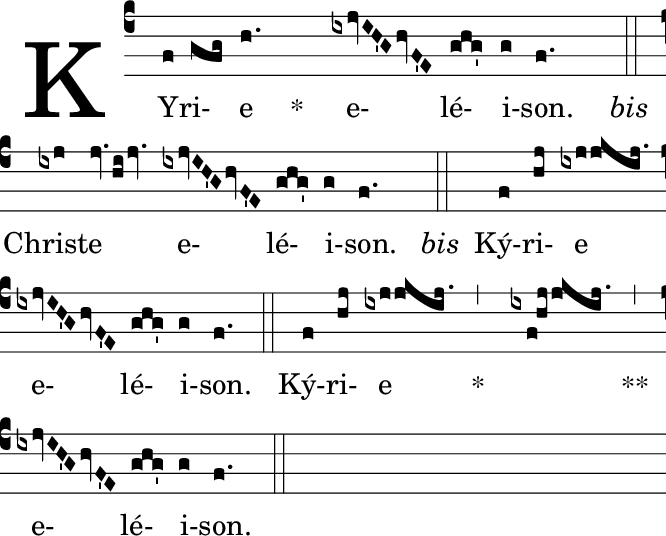
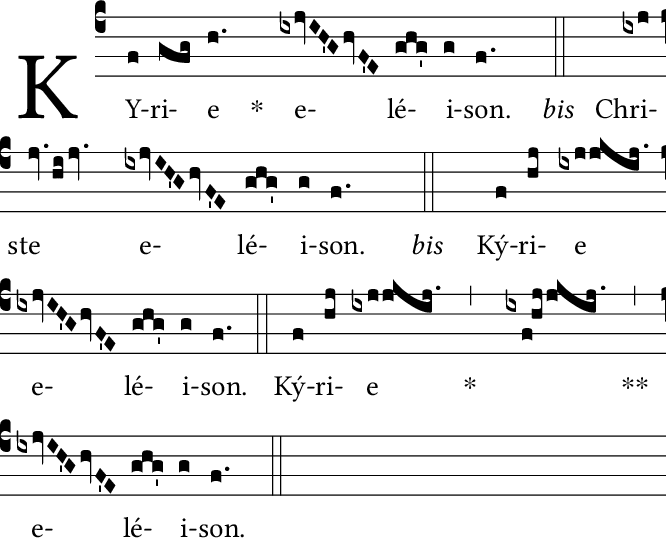
Changing font

diff --git a/tutorial/tutorial-gabc-03.html b/tutorial/tutorial-gabc-03.html
@@ -181,11 +181,11 @@ Finally, let's put a title at the top of the page by placing the following line 
 
 <h3>Changing the typeface</h3>
 
-<p>To see how the score looks in Palatino font, I looked for the line that sets the typeface New Century Schoolbook:</p>
+<p>To see how the score looks in Arial font, I looked for the line that sets the typeface to Linux Libertine:</p>
 
 <div class="commandline">
 	<pre>
-\usepackage{newcent}
+\usepackage{libertine}
 </pre>
 </div>
 
@@ -193,7 +193,7 @@ Finally, let's put a title at the top of the page by placing the following line 
 
 <div class="commandline">
 	<pre>
-\usepackage{<font color="red">palatino</font>}
+<font color="red">\setmainfont{Arial}</font>
 </pre>
 </div>
 
@@ -203,9 +203,7 @@ Finally, let's put a title at the top of the page by placing the following line 
 <img src="kyrie-17-15.png"/>
 </div>
 
-<p>If you don't see the difference, look particularly at the initial "K" and note where the lower diaganol branches off from the upper one.</p>
-
-<p>The best-looking free font for gregorio is a matter of taste, but <code>kpfonts</code> is also a good choice (<code>\usepackage{kpfonts}</code>).</p>
+<p>This result is kind of ugly, so we'll change it back to Linux Libertine, but this should give you some idea of how to change the font.  The best-looking font for Gregorian Chant is a matter of taste, but <code>kpfonts</code> is also a good choice (<code>\usepackage{kpfonts}</code>).</p>
 
 <p>For a list of free fonts which are readily available for <span class="tex">T<span class="epsilson">e</span>X</span> see <a href="http://www.tug.dk/FontCatalogue/">The <span class="latex">L<span class="alpha">a</span>T<span class="epsilon">e</span>X</span> Font Catalogue.</a>  Other fonts, including most of the ones already installed on your system, can also be used, but we'll leave it up to you to explore the use of other fonts on your own.</p>
 
@@ -215,7 +213,7 @@ Finally, let's put a title at the top of the page by placing the following line 
 
 <div class="commandline">
 	<pre>
-\grechangedim{spaceabovelines}{1.45576 cm plus 0.36461 cm minus 0.09114 cm}{scalable}%
+\grechangedim{spaceabovelines}{1.45 cm plus 0.36 cm minus 0.09 cm}{scalable}%
 </pre>
 </div>
 

diff --git a/tutorial/tutorial-gabc-01.html b/tutorial/tutorial-gabc-01.html
@@ -109,8 +109,8 @@ name:Kyrie XVII;
 
 \usepackage{fullpage}
 
-\usepackage{newcent}
-\usepackage[T1]{fontenc}
+\usepackage{fontspec}
+\usepackage{libertine}
 
 \usepackage[autocompile]{gregoriotex}
 
@@ -333,7 +333,7 @@ name:Kyrie XVII;
 <img src="kyrie-xvii-goal.png"/>
 </div>
 
-<p>There are still some differences.  Of course, the typefaces are different. The examples above from my system use the <span class="tex">T<span class="epsilon">e</span>X</span> typeface "newcent" (New Century Schoolbook), which is very readable. I'll do an experiment with a different typeface later.</p>
+<p>There are still some differences.  Of course, the typefaces are different. The examples above from my system use the <span class="tex">T<span class="epsilon">e</span>X</span> typeface "libertine" (Linux Libertine), which is very readable. I'll do an experiment with a different typeface later.</p>
 
 <p>There is also a difference in the hyphenation of the text. The gregorio software did not automatically add a hyphen after the first syllable of <i>KYrie</i>, because there was enough space between the neumes without a hyphen. Feel free to add a hyphen manually in your gabc file if you find that it makes the score more readable for you.</p>
 

diff --git a/tutorial/kyrie-17-final-main.tex b/tutorial/kyrie-17-final-main.tex
@@ -1,19 +1,19 @@
 \documentclass[12pt, a5paper]{article}
-\usepackage{fullpage}
-\usepackage{palatino}
-\usepackage[T1]{fontenc}
-\usepackage[autocompile]{gregoriotex}
-\pagestyle{empty}
-\begin{document}
 
+\usepackage{fullpage}
+
+\usepackage{fontspec}
+\usepackage{libertine}
+
+\usepackage[autocompile]{gregoriotex}
+
+\pagestyle{empty}
+
+\begin{document}
 
 \begin{center}\begin{huge}\textsc{Kyrie XVII}\end{huge}\end{center}
 
-\grechangedim{afterinitialshift}{3.2mm}{scalable}
-\grechangedim{beforeinitialshift}{3.2mm}{scalable}
-
-\grechangestyle{initial}{\fontsize{43}{43}\selectfont}
-\grechangedim{spaceabovelines}{1.45576 cm plus 0.36461 cm minus 0.09114 cm}{scalable}
+\grechangedim{spaceabovelines}{1.45 cm plus 0.36 cm minus 0.09 cm}{scalable}
 
 \greannotation{\small \textsc{\textbf{VI.}}}
 \grecommentary{{\small \emph{XIV. s.}}}

diff --git a/tutorial/kyrie-17-15-main.tex b/tutorial/kyrie-17-15-main.tex
@@ -1,22 +1,20 @@
 \documentclass[12pt, a5paper]{article}
+
 \usepackage{fullpage}
-\usepackage{palatino}
-\usepackage[T1]{fontenc}
+
+\usepackage{fontspec}
+\setmainfont{Arial}
+
 \usepackage[autocompile]{gregoriotex}
+
 \pagestyle{empty}
+
 \begin{document}
 
 \begin{center}\begin{huge}\textsc{Kyrie XVII}\end{huge}\end{center}
 
-\grechangedim{afterinitialshift}{3.2mm}{scalable}
-\grechangedim{beforeinitialshift}{3.2mm}{scalable}
-
-\grechangestyle{initial}{\fontsize{43}{43}\selectfont}
-
 \greannotation{\small \textsc{\textbf{VI.}}}
 \grecommentary{{\small \emph{XIV. s.}}}
-\gregorioscore{kyrie-17-15}
+\gregorioscore{kyrie-17-final}
 
 \end{document}
-
-

diff --git a/tutorial/kyrie-17-14-main.tex b/tutorial/kyrie-17-14-main.tex
@@ -1,22 +1,20 @@
 \documentclass[12pt, a5paper]{article}
+
 \usepackage{fullpage}
-\usepackage{newcent}
-\usepackage[T1]{fontenc}
+
+\usepackage{fontspec}
+\usepackage{libertine}
+
 \usepackage[autocompile]{gregoriotex}
+
 \pagestyle{empty}
+
 \begin{document}
 
 \begin{center}\begin{huge}\textsc{Kyrie XVII}\end{huge}\end{center}
-
-\grechangedim{afterinitialshift}{3.2mm}{scalable}
-\grechangedim{beforeinitialshift}{3.2mm}{scalable}
-
-\grechangestyle{initial}{\fontsize{43}{43}\selectfont}
 
 \greannotation{\small \textsc{\textbf{VI.}}}
 \grecommentary{{\small \emph{XIV. s.}}}
 \gregorioscore{kyrie-17-14}
 
 \end{document}
-
-

diff --git a/tutorial/kyrie-17-06-main.tex b/tutorial/kyrie-17-06-main.tex
@@ -1,20 +1,16 @@
 \documentclass[12pt, a5paper]{article}
+
 \usepackage{fullpage}
-\usepackage{newcent}
-\usepackage[T1]{fontenc}
+
+\usepackage{fontspec}
+\usepackage{libertine}
+
 \usepackage[autocompile]{gregoriotex}
+
 \pagestyle{empty}
+
 \begin{document}
 
-\grechangedim{afterinitialshift}{3.2mm}{scalable}
-\grechangedim{beforeinitialshift}{3.2mm}{scalable}
-
-\grechangestyle{initial}{\fontsize{43}{43}\selectfont}
-
-\greannotation{\small \textsc{\textbf{}}}
-\grecommentary{{\small \emph{}}}
-\gregorioscore{kyrie-17-06.tex}
+\gregorioscore{kyrie-17-06}
 
 \end{document}
-
-

diff --git a/tutorial/kyrie-17-13a-main.tex b/tutorial/kyrie-17-13a-main.tex
@@ -1,20 +1,16 @@
 \documentclass[12pt, a5paper]{article}
+
 \usepackage{fullpage}
-\usepackage{newcent}
-\usepackage[T1]{fontenc}
+
+\usepackage{fontspec}
+\usepackage{libertine}
+
 \usepackage[autocompile]{gregoriotex}
+
 \pagestyle{empty}
+
 \begin{document}
 
-\grechangedim{afterinitialshift}{3.2mm}{scalable}
-\grechangedim{beforeinitialshift}{3.2mm}{scalable}
-
-\grechangestyle{initial}{\fontsize{43}{43}\selectfont}
-
-\greannotation{\small \textsc{\textbf{}}}
-\grecommentary{{\small \emph{}}}
-\gregorioscore{kyrie-17-13a}
+\gregorioscore{kyrie-17-final}
 
 \end{document}
-
-

diff --git a/tutorial/kyrie-17-13-main.tex b/tutorial/kyrie-17-13-main.tex
@@ -1,20 +1,16 @@
 \documentclass[12pt, a5paper]{article}
+
 \usepackage{fullpage}
-\usepackage{newcent}
-\usepackage[T1]{fontenc}
+
+\usepackage{fontspec}
+\usepackage{libertine}
+
 \usepackage[autocompile]{gregoriotex}
+
 \pagestyle{empty}
+
 \begin{document}
 
-\grechangedim{afterinitialshift}{3.2mm}{scalable}
-\grechangedim{beforeinitialshift}{3.2mm}{scalable}
-
-\grechangestyle{initial}{\fontsize{43}{43}\selectfont}
-
-\greannotation{\small \textsc{\textbf{}}}
-\grecommentary{{\small \emph{}}}
-\gregorioscore{kyrie-17-13}
+\gregorioscore{kyrie-17-final}
 
 \end{document}
-
-

diff --git a/tutorial/kyrie-17-01-main.tex b/tutorial/kyrie-17-01-main.tex
@@ -1,20 +1,16 @@
 \documentclass[12pt, a5paper]{article}
+
 \usepackage{fullpage}
-\usepackage{newcent}
-\usepackage[T1]{fontenc}
+
+\usepackage{fontspec}
+\usepackage{libertine}
+
 \usepackage[autocompile]{gregoriotex}
+
 \pagestyle{empty}
+
 \begin{document}
 
-\grechangedim{afterinitialshift}{3.2mm}{scalable}
-\grechangedim{beforeinitialshift}{3.2mm}{scalable}
-
-\grechangestyle{initial}{\fontsize{43}{43}\selectfont}
-
-\greannotation{\small \textsc{\textbf{}}}
-\grecommentary{{\small \emph{}}}
 \gregorioscore{kyrie-17-01}
 
 \end{document}
-
-

diff --git a/tutorial/kyrie-17-02-main.tex b/tutorial/kyrie-17-02-main.tex
@@ -1,20 +1,16 @@
 \documentclass[12pt, a5paper]{article}
+
 \usepackage{fullpage}
-\usepackage{newcent}
-\usepackage[T1]{fontenc}
+
+\usepackage{fontspec}
+\usepackage{libertine}
+
 \usepackage[autocompile]{gregoriotex}
+
 \pagestyle{empty}
+
 \begin{document}
 
-\grechangedim{afterinitialshift}{3.2mm}{scalable}
-\grechangedim{beforeinitialshift}{3.2mm}{scalable}
-
-\grechangestyle{initial}{\fontsize{43}{43}\selectfont}
-
-\greannotation{\small \textsc{\textbf{}}}
-\grecommentary{{\small \emph{}}}
 \gregorioscore{kyrie-17-02}
 
 \end{document}
-
-

diff --git a/tutorial/kyrie-17-03-main.tex b/tutorial/kyrie-17-03-main.tex
@@ -1,20 +1,16 @@
 \documentclass[12pt, a5paper]{article}
+
 \usepackage{fullpage}
-\usepackage{newcent}
-\usepackage[T1]{fontenc}
+
+\usepackage{fontspec}
+\usepackage{libertine}
+
 \usepackage[autocompile]{gregoriotex}
+
 \pagestyle{empty}
+
 \begin{document}
 
-\grechangedim{afterinitialshift}{3.2mm}{scalable}
-\grechangedim{beforeinitialshift}{3.2mm}{scalable}
-
-\grechangestyle{initial}{\fontsize{43}{43}\selectfont}
-
-\greannotation{\small \textsc{\textbf{}}}
-\grecommentary{{\small \emph{}}}
 \gregorioscore{kyrie-17-03}
 
 \end{document}
-
-

diff --git a/tutorial/kyrie-17-04-main.tex b/tutorial/kyrie-17-04-main.tex
@@ -1,20 +1,16 @@
 \documentclass[12pt, a5paper]{article}
+
 \usepackage{fullpage}
-\usepackage{newcent}
-\usepackage[T1]{fontenc}
+
+\usepackage{fontspec}
+\usepackage{libertine}
+
 \usepackage[autocompile]{gregoriotex}
+
 \pagestyle{empty}
+
 \begin{document}
 
-\grechangedim{afterinitialshift}{3.2mm}{scalable}
-\grechangedim{beforeinitialshift}{3.2mm}{scalable}
-
-\grechangestyle{initial}{\fontsize{43}{43}\selectfont}
-
-\greannotation{\small \textsc{\textbf{}}}
-\grecommentary{{\small \emph{}}}
 \gregorioscore{kyrie-17-04}
 
 \end{document}
-
-
